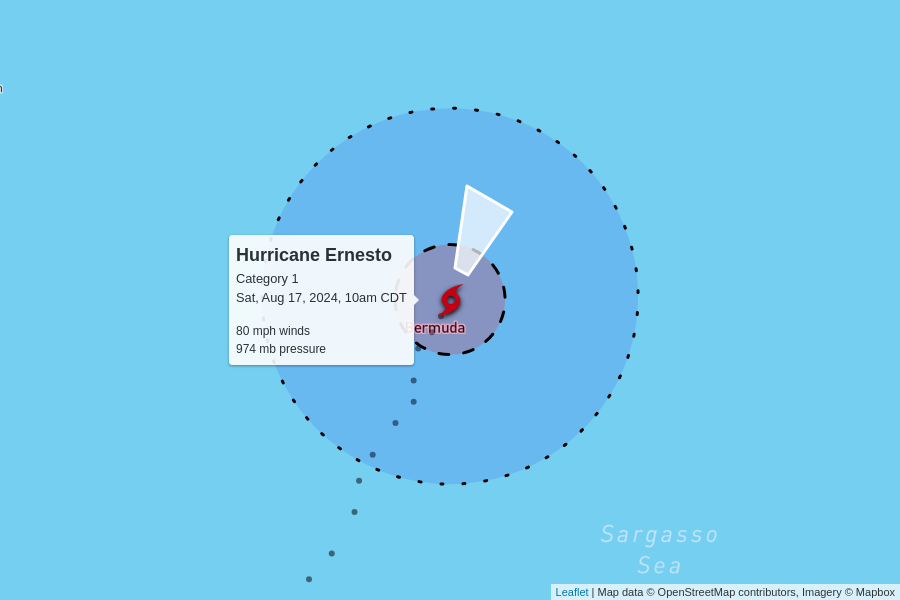
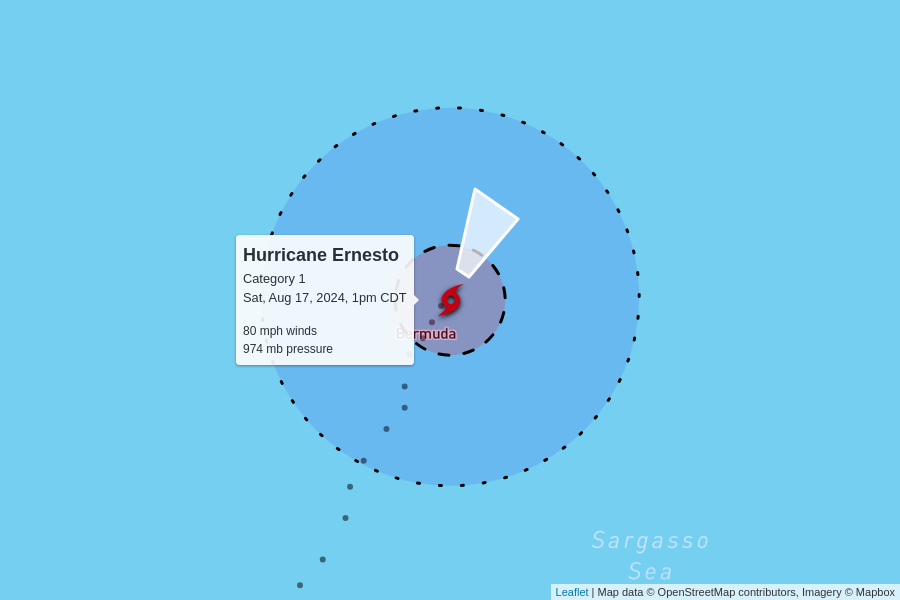
automatic update

diff --git a/docs/index.html b/docs/index.html
@@ -102,7 +102,7 @@
         <td colspan="6" class="storm category-1" >
           <h2>
             Hurricane Ernesto - Category 1
-            <p class="updated">last updated <span data-time>2024-08-17T15:00:00.000Z</span></p>
+            <p class="updated">last updated <span data-time>2024-08-17T18:00:00.000Z</span></p>
           </h2>
         </td>
       </tr>
@@ -117,12 +117,12 @@
       </tr>
       <tr>
         <td class="spacer"></td>
-        <td>80 mph<br>-5 mph since last update</td>
+        <td>80 mph<br>0 mph since last update</td>
         <td>974 mb<br>0 mb since last update</td>
         <td>
-          9 mph to the north-northeast
+          7 mph to the north-northeast
           <br/>
-          <span style="display: inline-block; font-size: 1.5em; transform: rotate(25deg);">↑</span>
+          <span style="display: inline-block; font-size: 1.5em; transform: rotate(30deg);">↑</span>
         </td>
         <td><a href="https://raw.githubusercontent.com/mgwalker/atlantic-hurricanes/main/data/csv/AL052024.csv">AL052024.csv</a></td>
         <td><a href="https://www.nhc.noaa.gov/archive/2024/ERNESTO.shtml?">NHC advisories</a></td>
